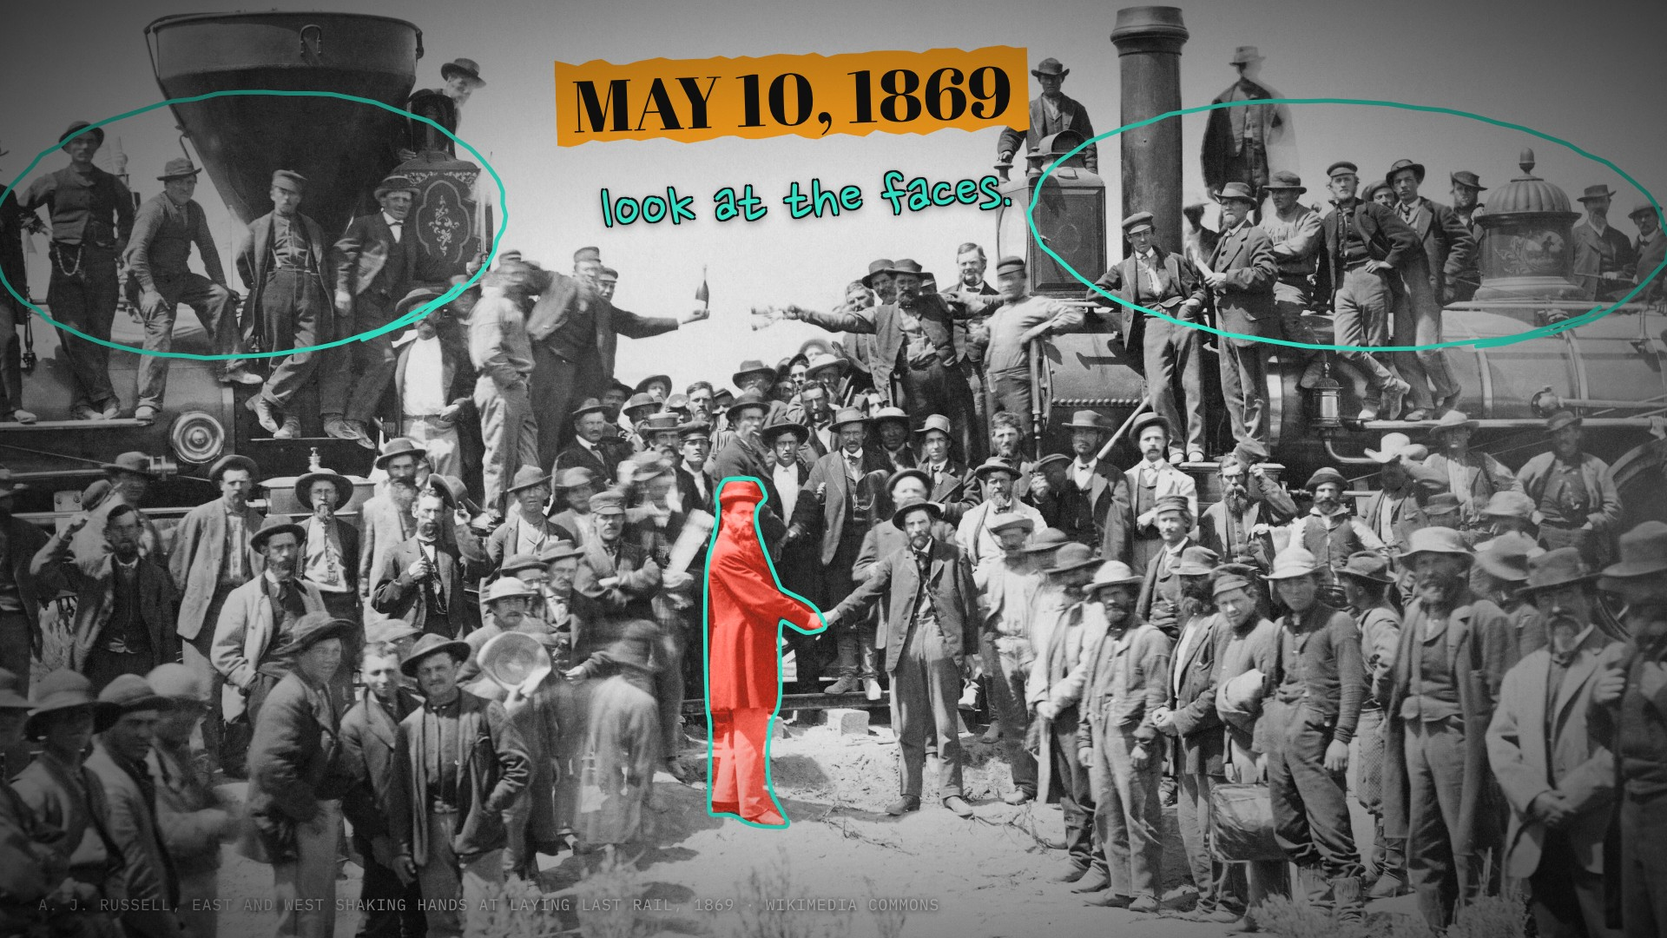
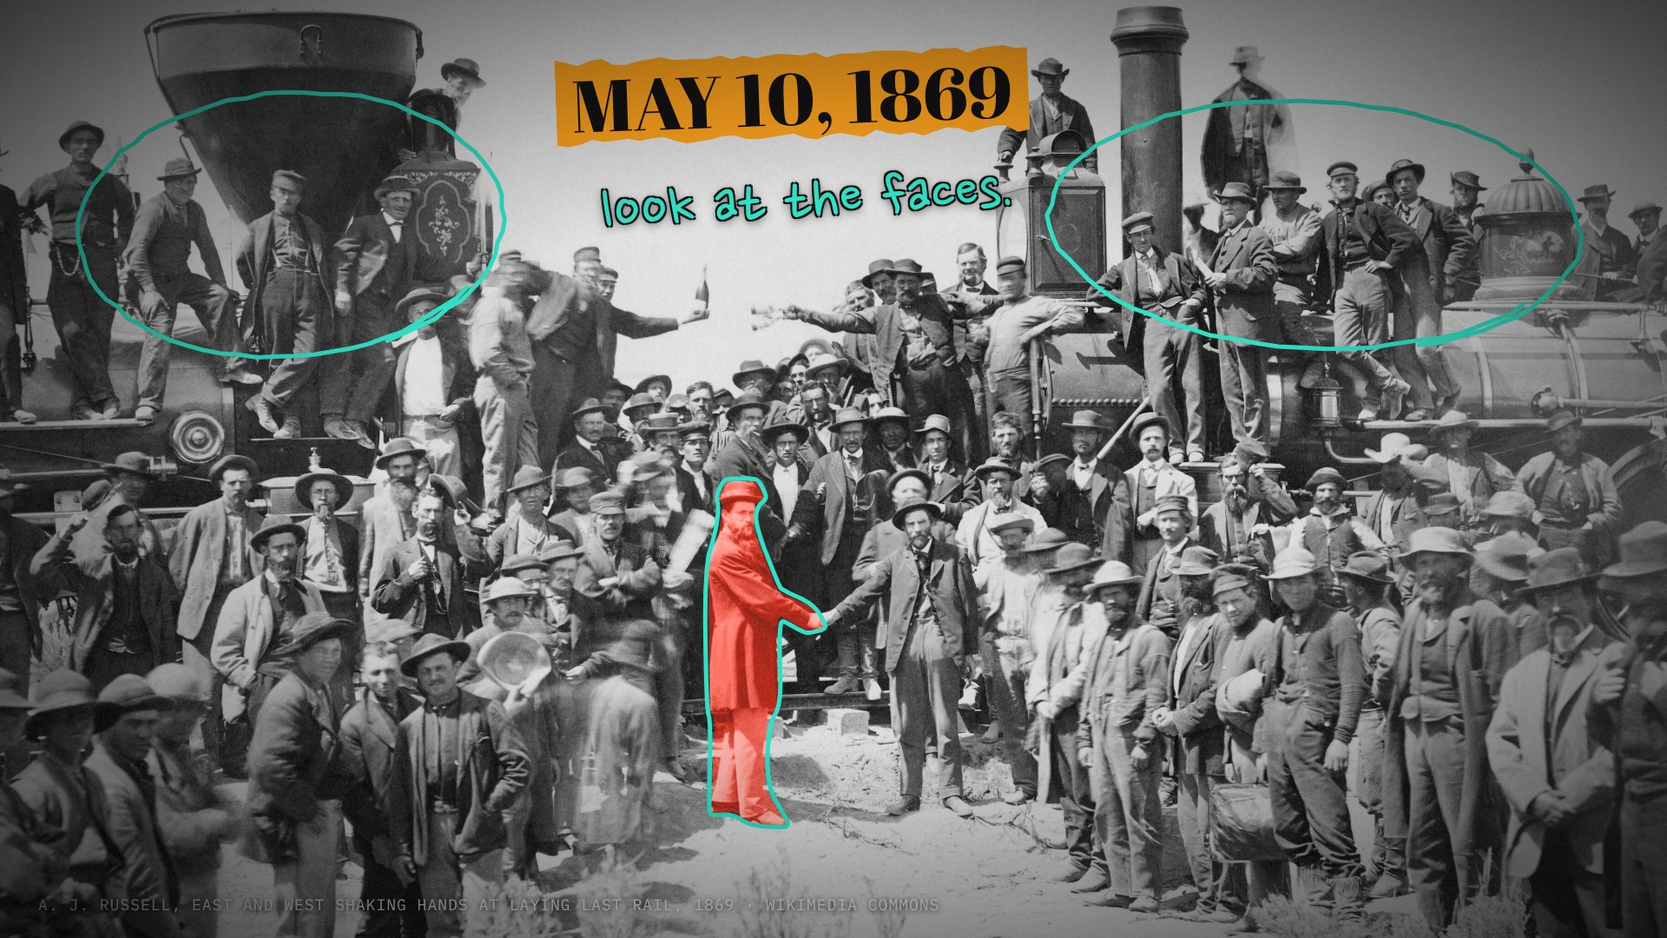
Ep 1 samples: 5 scenes, 15 style options, contact sheets and notes (stills only)
Claude-Session: https://claude.ai/code/session_01PVKdWU2D7nhk35zRUzwE6f

diff --git a/projects/American_West/ep1/src/samples/masks.ts b/projects/American_West/ep1/src/samples/masks.ts
@@ -1,8 +1,7 @@
 // Masks for the style-sample scenes (public/img/masks/s_*). Made with rembg via ep1/tools/mask.py's run(), then
-// hand-traced where rembg failed (s_up, s_montague, s_crew, s_worker: polygon-only; s_goliah: rembg + pilot polygon).
+// hand-traced where rembg failed (s_up, s_montague, s_worker: polygon-only; s_goliah: rembg + pilot polygon).
 // Do not re-run rembg over these; the traces and commands are listed in review/samples/README.md.
 import {maskRef} from '../kit/maskref';
-import crew from '../../public/img/masks/s_crew.json';
 import goliah from '../../public/img/masks/s_goliah.json';
 import montague from '../../public/img/masks/s_montague.json';
 import redcloud from '../../public/img/masks/s_redcloud.json';
@@ -10,7 +9,6 @@ import up from '../../public/img/masks/s_up.json';
 import worker from '../../public/img/masks/s_worker.json';
 
 export const SM = {
-  crew: maskRef('s_crew', crew),
   goliah: maskRef('s_goliah', goliah),
   montague: maskRef('s_montague', montague),
   redcloud: maskRef('s_redcloud', redcloud),
@@ -21,7 +19,6 @@ export const SM = {
 /** Source pixel sizes of the sample images (public/img/samples). */
 export const SZ = {
   spike: [3840, 2922] as [number, number],
-  laborers: [2128, 2020] as [number, number],
   tunnel8: [2090, 2000] as [number, number],
   goliah: [2104, 2040] as [number, number],
   carbutt: [2012, 2087] as [number, number],
@@ -33,7 +30,6 @@ export const SZ = {
 
 export const IMG = {
   spike: 'img/samples/spike_russell_1869.jpg',
-  laborers: 'img/samples/hart_summit_laborers.jpg',
   tunnel8: 'img/samples/hart_tunnel8_worker.jpg',
   goliah: 'img/samples/hart_goliah_mirrored.jpg',
   carbutt: 'img/samples/carbutt_up_100th_1866.jpg',

diff --git a/projects/American_West/ep1/src/samples/S1Spike.tsx b/projects/American_West/ep1/src/samples/S1Spike.tsx
@@ -17,8 +17,8 @@ export const S1A: React.FC = () => (
         const [l2x, l2y] = S(3020, 800);
         return (
           <>
-            <Loop cx={l1x} cy={l1y} rx={290} ry={150} at={24} seed={5} tilt={-4} />
-            <Loop cx={l2x} cy={l2y} rx={360} ry={140} at={30} seed={9} tilt={3} />
+            <Loop cx={l1x + 50} cy={l1y} rx={240} ry={150} at={24} seed={5} tilt={-4} />
+            <Loop cx={l2x - 40} cy={l2y} rx={300} ry={140} at={30} seed={9} tilt={3} />
             <Highlight text="MAY 10, 1869" x={640} y={60} size={84} at={6} seed={11} rot={-2} />
             <Note text="look at the faces." x={690} y={185} size={50} rot={-3} at={36} />
             <Tag text={SPIKE_TAG} />
@@ -59,6 +59,6 @@ export const S1C: React.FC = () => (
     <Note text="(left out of the frame)" x={1350} y={250} size={38} rot={-3} at={42} color="#ffffff" />
     <Arrow x1={1400} y1={350} x2={1180} y2={560} bow={-30} at={48} />
     <Highlight text="NOT IN THE PICTURE" x={120} y={952} size={70} at={6} seed={21} rot={-2} />
-    <Tag text="A. J. Russell, 1869 · Commons  ·  A. A. Hart, Heading of Tunnel No. 8, c. 1867 · LOC" x={44} y={24} />
+    <Tag text="A. J. Russell, 1869 · Commons  ·  A. A. Hart, Heading of Tunnel No. 8, 1865–69 · LOC" x={44} y={24} />
   </Sample>
 );

diff --git a/projects/American_West/ep1/src/samples/tools/prep.py b/projects/American_West/ep1/src/samples/tools/prep.py
@@ -1,0 +1,36 @@
+# Crop/re-encode downloaded archival files into ep1/public/img/samples (data only; nothing executed from downloads)
+# DL = folder of raw downloads (LOC TIFF masters, IIIF JPGs, Commons files; see public/img/samples/CREDITS.md). It was a
+# session scratch folder, so set DL before re-running.
+import os
+from PIL import Image, ImageOps
+Image.MAX_IMAGE_PIXELS = None
+SP = os.environ.get("SAMPLES_DL_ROOT", "")
+DL = os.path.join(SP, "dl")
+OUT = "/home/user/15minhistorystyle/projects/American_West/ep1/public/img/samples"
+def save(im, name, maxw=None):
+    im = im.convert("RGB")
+    if maxw and im.width > maxw:
+        im = im.resize((maxw, round(im.height * maxw / im.width)), Image.LANCZOS)
+    im.save(os.path.join(OUT, name), quality=90); print(name, im.size)
+save(Image.open(f"{DL}/commons/spike.jpg"), "spike_russell_1869.jpg")
+save(Image.open(f"{DL}/tif/1s00553.tif").crop((300, 90, 2390, 2090)), "hart_tunnel8_worker.jpg")
+g = Image.open(f"{DL}/tif/1s00612.tif").convert("RGB").crop((288, 112, 2392, 2152))
+save(g, "hart_goliah.jpg")
+# Mirrored copy so the CP engine faces east (right) on the left of a west-left map; the number plate and cab
+# nameplate are pasted back un-mirrored so their lettering reads correctly. Disclosed on screen and in CREDITS.md.
+f = ImageOps.mirror(g)
+from PIL import ImageDraw
+def unflip(im, box, ellipse=False):   # flip a region back in place so its lettering reads correctly
+    patch = ImageOps.mirror(im.crop(box))
+    m = Image.new("L", patch.size, 0); d = ImageDraw.Draw(m)
+    (d.ellipse if ellipse else d.rectangle)((0, 0, patch.width - 1, patch.height - 1), fill=255)
+    im.paste(patch, box[:2], m)
+unflip(f, (1785 - 45, 937 - 45, 1785 + 45, 937 + 45), ellipse=True)   # "27" number plate
+unflip(f, (1062, 770, 1158, 800))                                    # cab nameplate
+save(f, "hart_goliah_mirrored.jpg")
+save(Image.open(f"{DL}/tif/1s00083.tif").crop((343, 179, 2355, 2266)), "carbutt_up_100th_1866.jpg")
+save(Image.open(f"{DL}/tif/3c04561.tif").crop((614, 250, 2776, 3390)), "red_cloud_trager_kuhn_1891.jpg")
+save(Image.open(f"{DL}/doc/act_0563.jpg"), "pacific_railway_act_1862_p1.jpg")
+save(Image.open(f"{DL}/doc/act_0566.jpg"), "pacific_railway_act_1862_p4.jpg")
+save(Image.open(f"{DL}/maps/terr1868.jpg"), "map_warren_1868.jpg")
+save(Image.open(f"{DL}/maps/up_dodge1869.jpg"), "map_up_dodge_1869.jpg")

diff --git a/projects/American_West/ep1/src/samples/tools/srefine.py b/projects/American_West/ep1/src/samples/tools/srefine.py
@@ -1,0 +1,25 @@
+# refine sample masks: --only / --add polygons, fill holes, close, smooth; re-save via ep1/tools/trace.py
+import sys, json, argparse, cv2, numpy as np
+from PIL import Image, ImageDraw
+sys.path.insert(0, "/home/user/15minhistorystyle/projects/American_West/ep1/tools")
+import trace as T
+M = "/home/user/15minhistorystyle/projects/American_West/ep1/public/img/masks/"
+ap = argparse.ArgumentParser(); ap.add_argument("name"); ap.add_argument("--only"); ap.add_argument("--add"); ap.add_argument("--sub")
+ap.add_argument("--close", type=int, default=9); ap.add_argument("--smooth", type=int, default=3); a = ap.parse_args()
+m = np.asarray(Image.open(M + a.name + "_subject.png").convert("L")) > 127
+size = (m.shape[1], m.shape[0])
+def polys(p):
+    im = Image.new("L", size, 0); d = ImageDraw.Draw(im)
+    for q in json.load(open(p)): d.polygon([tuple(x) for x in q], fill=255)
+    return np.asarray(im) > 127
+if a.only: m = polys(a.only)
+if a.add: m = m | polys(a.add)
+if a.sub: m = m & ~polys(a.sub)
+m = m.astype(np.uint8) * 255
+m = cv2.morphologyEx(m, cv2.MORPH_CLOSE, cv2.getStructuringElement(cv2.MORPH_ELLIPSE, (a.close, a.close)))
+h, w = m.shape; fl = cv2.copyMakeBorder(m, 1, 1, 1, 1, cv2.BORDER_CONSTANT, value=0)
+cv2.floodFill(fl, np.zeros((h + 4, w + 4), np.uint8), (0, 0), 255); m = m | cv2.bitwise_not(fl[1:-1, 1:-1])
+if a.smooth: m = (cv2.GaussianBlur(m, (0, 0), a.smooth) > 127).astype(np.uint8) * 255
+n, lab, st, _ = cv2.connectedComponentsWithStats(m)
+if n > 2: m = ((lab == 1 + int(np.argmax(st[1:, cv2.CC_STAT_AREA]))) * 255).astype(np.uint8)
+T.save(a.name, size, {"subject": m})

diff --git a/projects/American_West/ep1/src/samples/tools/closeup.py b/projects/American_West/ep1/src/samples/tools/closeup.py
@@ -1,0 +1,25 @@
+# mask_closeup for the sample masks (sources from smask.py JOBS)
+import sys, os, re
+from PIL import Image, ImageDraw, ImageFilter
+import numpy as np
+PUB = "/home/user/15minhistorystyle/projects/American_West/ep1/public"
+src = open(os.path.join(os.path.dirname(os.path.abspath(__file__)), "smask.py")).read()
+J = dict(re.findall(r'"(s_\w+)": \("([^"]+)"', src))
+out, names = sys.argv[1], sys.argv[2:]
+tiles = []
+for n in names:
+    im = Image.open(os.path.join(PUB, J[n])).convert('RGB')
+    m = Image.open(os.path.join(PUB, 'img', 'masks', n + '_subject.png')).convert('L')
+    a = np.asarray(m) > 127; ys, xs = np.nonzero(a)
+    pad = 0.08 * max(np.ptp(xs), np.ptp(ys))
+    box = (max(0, int(xs.min() - pad)), max(0, int(ys.min() - pad)), min(im.width, int(xs.max() + pad)), min(im.height, int(ys.max() + pad)))
+    c = im.crop(box); mc = m.crop(box)
+    s = 700 / c.height; c = c.resize((int(c.width * s), 700)); mc = mc.resize(c.size)
+    edge = mc.filter(ImageFilter.FIND_EDGES).point(lambda v: 255 if v > 60 else 0)
+    o = c.copy(); o.paste((47, 224, 196), mask=edge.filter(ImageFilter.MaxFilter(3)))
+    cut = Image.new('RGB', c.size, (120, 120, 120)); cut.paste(c, mask=mc)
+    t = Image.new('RGB', (c.width * 2 + 10, 730), 'black'); t.paste(o, (0, 30)); t.paste(cut, (c.width + 10, 30))
+    ImageDraw.Draw(t).text((6, 6), n, fill='white'); tiles.append(t)
+W = sum(t.width for t in tiles) + 10 * len(tiles); sheet = Image.new('RGB', (W, 730), 'black'); x = 0
+for t in tiles: sheet.paste(t, (x, 0)); x += t.width + 10
+sheet.save(out, quality=88); print(out, sheet.size)

diff --git a/projects/American_West/ep1/src/samples/tools/smask.py b/projects/American_West/ep1/src/samples/tools/smask.py
@@ -1,0 +1,15 @@
+# Sample-scene masks: reuses ep1/tools/mask.py's run() with jobs for public/img/samples images.
+import sys
+sys.path.insert(0, "/home/user/15minhistorystyle/projects/American_West/ep1/tools")
+from mask import run  # noqa: E402
+JOBS = {
+    "s_montague": ("img/samples/spike_russell_1869.jpg", (1540, 1290, 1900, 2150), "isnet-general-use", 5000),
+    "s_goliah": ("img/samples/hart_goliah_mirrored.jpg", (985, 280, 2104, 1340), "isnet-general-use"),
+    "s_up": ("img/samples/carbutt_up_100th_1866.jpg", (0, 540, 920, 1200), "isnet-general-use"),
+    "s_worker": ("img/samples/hart_tunnel8_worker.jpg", None, "hand-traced"),  # polygon only: traces/s_worker.json
+    "s_redcloud": ("img/samples/red_cloud_trager_kuhn_1891.jpg", None, "u2net_human_seg"),
+}
+for n in sys.argv[1:] or JOBS:
+    print(n, flush=True)
+    try: run(n, *JOBS[n])
+    except Exception as e: print("FAIL", n, e)

diff --git a/projects/American_West/ep1/review/samples/README.md b/projects/American_West/ep1/review/samples/README.md
@@ -1,0 +1,112 @@
+# West series: style samples (stills only)
+
+Fifteen 1920×1080 stills, one per option, plus one contact sheet per scene (`sheet_S1_spike.jpg` … `sheet_S5_system.jpg`;
+the file name under each tile is the option). Option **A** is closest to the current channel look; **B/C** lean further into
+the collage ideas in `GRAPHICS_BRAINSTORM.md`. Everything sits on the black desk (`DarkPaper`): no cream or white cards, mounts
+or sticker edges. The only light tones are the archival scans themselves.
+
+- Code: `src/samples/` (`kit.tsx` = the new pieces, one file per scene, compositions registered in `src/Root.tsx` as
+  `S1-Spike-A` … `S5-Resist-B`, 90 frames each). Re-render all stills with `node src/samples/stills.mjs review/samples`
+  (frame 84, after every mark has landed).
+- Images and sources: `public/img/samples/` + `CREDITS.md`. All real archival files (LOC, Wikimedia Commons). No AI images.
+- Checks: `npx tsc --noEmit` passes; `tools/probe_text.mjs` over all 15 compositions: no text crosses the frame edge.
+
+## 1 · Cold open: the golden-spike photo (`sheet_S1_spike.jpg`)
+
+| Option | What it is | Brainstorm idea |
+|---|---|---|
+| **A** `S1-Spike-A` | Current look. Russell's photo full-bleed with a slow push. One coral figure with a teal trace (S. S. Montague, the CP's chief engineer, shaking hands). Teal loops round the men on both engines, "look at the faces.", and MAY 10, 1869 on orange tape. | the baseline |
+| **B** `S1-Spike-B` | The photo as a **torn print**: deckled edges with no border, a hard ink offset shadow, and two strips of orange tape. The bottom-right corner is torn away to bare desk ("who's missing?" with an arrow into the gap). A small **dark map card** (1868 War Dept. map) pins Promontory. NOT IN THE PICTURE on tape. | #4 torn print, #8 map card |
+| **C** `S1-Spike-C` | B plus a **cut-out of a Central Pacific Chinese worker** (Hart, Tunnel No. 8, with his carrying pole and buckets) standing in the torn gap. He becomes the frame's one coral subject (tint + teal trace + ink shadow), and the print goes plain B&W. | #11 cut-outs; thumbnail direction 1 |
+
+**What works:** C is the strongest frame of the set: the torn gap plus the worker says the episode's thesis without a word, and it
+doubles as the "Who's missing?" thumbnail. B is a cheap, safe upgrade over A and still reads as the channel. The map card is legible as
+"a place" even at this size.
+**What doesn't:** In B/C the print shrinks the crowd, so Montague's tint in B is small (this is fine for a cold open but not for a
+"look at the faces" beat; use A's full-bleed push for that line and cut to B/C on "aren't in it"). The worker in C is only about 490 px tall in
+the stereo half (shown at 0.88×); edges are hand-traced and clean, but the figure is soft next to Russell's sharp print. The
+map card's crop is dark and generic; with the real series map it will read better.
+
+## 2 · Land-grant checkerboard (`sheet_S2_checkerboard.jpg`)
+
+| Option | What it is | Brainstorm idea |
+|---|---|---|
+| **A** `S2-Checker-A` | Flat diagram: two townships (6×6 sections, real section numbering) in teal on the desk. The coral rail line draws across the middle, and odd sections fill orange behind it at 12 fps (railroad); even sections stay open (government). Legend in mono. The first page of the 1862 Act sits beside it as a taped torn print. | #1 survey grid |
+| **B** `S2-Checker-B` | The same plat **tilted onto the desk** in perspective (three townships wide), the line running into the distance, the Act pinned top-right. | #1, more "object on the desk" |
+| **C** `S2-Checker-C` | **Focus pull on the Act's own text** (p. 4, Sec. 3): the page lifts, everything but three lines blurs and dims, and a coral highlighter runs along "every alternate section of public land, designated by odd numbers, to the amount of five alternate sections per mile on each side of said railroad". One township fills beside it. | #3 focus pull (+ the planned `swipe`) |
+
+**What works:** C is the best teaching frame: the law's words and the picture they make, side by side. A is the clearest diagram
+and fully brand-safe. **What doesn't:** B looks great as a texture, but the tilt makes the numbers unreadable and the near rows
+crowd the bottom edge. Use it as a 2-second establishing move before cutting to A or C, not as the explainer. In A, the section
+numbers are a little busy; for the video, consider numbers only in the first township.
+
+## 3 · The race (`sheet_S3_race.jpg`)
+
+| Option | What it is | Brainstorm idea |
+|---|---|---|
+| **A** `S3-Race-A` | Two **locomotive cut-outs** with a hard ink shadow, nose to nose across the frame, the UP's own 1869 survey map (Dodge) as a torn strip between them. The CP engine is the coral subject (tint + teal trace). Orange name tags, "east from Sacramento" / "west from Omaha", "paid by the mile". | #11 cut-outs |
+| **B** `S3-Race-B` | The same, but the CP engine is lifted by a **coral offset shadow** instead of tint and trace (still one coral subject). | #6 offset coral shadow |
+| **C** `S3-Race-C` | Each engine stays **inside its own torn photo print**, taped, the map strip laid across both. | #4 torn prints |
+
+**What works:** A has the most energy, and the coral offset in B is graphic and readable at thumbnail size. C is the most
+"archival" and the least work per shot. **What doesn't / caveats (please read):**
+- **The CP engine is mirrored.** On a west-left map the CP engine sits on the left and must face east (right). The only sharp
+  period CP side view I found, Hart's *Goliah*, faces west (left). Carbutt's 1866 UP engine already faces west, so it sits on the
+  right unchanged. I mirrored the *Goliah* and flipped its "27" number plate and cab nameplate back so they read correctly. The
+  tag says "mirrored". If you'd rather not mirror an archival photo, the honest alternatives are (a) find side views of *Jupiter* and
+  *No. 119* that face the right way (CSRM or the UP Museum may have them), or (b) let both engines face west and drop the
+  "facing each other" idea.
+- The UP cut-out (Carbutt, 1866, from a stereo half) is much softer and grainier than the Hart print, and its mask is a hand-traced
+  polygon (rembg couldn't separate the engine from the train and the grass). It holds up at this size but not in a close push.
+- These are not *Jupiter* and *No. 119*. Those two engines appear only in the Promontory photos, covered in people.
+
+## 4 · Promise Ledger (`sheet_S4_ledger.jpg`)
+
+| Option | What it is |
+|---|---|
+| **A** `S4-Ledger-A` | A wide dark ledger across the desk: torn top edge with orange tape, teal rules and margin, mono column heads THE PROMISE · WHO GOT IT · WHO DIDN'T, rows EP 1–4, row 1 written in teal hand. The title is on orange tape above it. |
+| **B** `S4-Ledger-B` | A narrower ledger card with its title set in orange Abril on the card, beside the torn golden-spike print (callback). Two-line entries; "the Chinese crews" in coral as the punchline, and "banned by nationality, 1882" below. |
+
+**What works:** A reads instantly as a recurring object (empty rows promise the series), and it is the one I'd ship. B is the
+better *ending* frame for Ep 1 (the callback to the photo), but coral text is an exception to the palette; use it once.
+**What doesn't:** the dark ledger is close in tone to the desk. I lightened the card a touch, and it still needs the shadow and
+tape to separate. If it gets lost on a small screen, a 2 px teal outer rule would fix it without adding a light surface.
+
+## 5 · System pieces for later episodes (`sheet_S5_system.jpg`)
+
+| Option | What it is |
+|---|---|
+| **Hinge A** `S5-Hinge-A` | "1862" in Abril on a torn orange box that stamps in, then a dark mono strip under it in teal: 1862 · PACIFIC RAILWAY ACT · HOMESTEAD ACT · MORRILL ACT. Big, on the bare desk, with a "remember this year" note. |
+| **Hinge B** `S5-Hinge-B` | The same stamp smaller in a **fixed top-left slot** over whatever scene it interrupts (here the 1868 map, dimmed), so it reads as a recurring stamp. |
+| **Resist A** `S5-Resist-A` | Resistance card on the desk: Red Cloud's photograph in a dark circle mount with a teal ring and a teal trace only (no tint), five orange mono field tags (WHO / WHERE / WHEN / WHY / HOW IT ENDED) with teal handwritten answers, and a map-card corner looping the Powder River country. Title RED CLOUD'S WAR on tape. |
+| **Resist B** `S5-Resist-B` | Everything on **one dark card** (thin teal rule): portrait, name tag and map stacked left, the five fields right. |
+
+**What works:** Hinge B is the one to standardise (same slot every time, so it becomes recognisable); A is for the first time a
+year is introduced. Resist B looks most like a "card" students can learn to read; A is airier. **What doesn't:** in the tight
+circle crop, the teal trace only shows along Red Cloud's face and hair edge and reads a little like a crack. For portraits that fill
+the circle, I'd drop the trace and let the teal ring be the mark. The portrait is c. 1891, decades after the 1866–68 war; for
+the real card, look for an earlier portrait (e.g. the 1870s Washington delegation photos) or say "photographed c. 1891" on screen.
+The Powder River loop on the 1868 map is placed by eye (approximate). Field tags are orange (labels) rather than the mono-on-ink
+of the brainstorm: ink tags vanished on the dark card.
+
+## Masks (check before reuse)
+
+`public/img/masks/s_*`, registered in `src/samples/masks.ts` (separate from the chapter `src/masks.ts`). rembg alone failed on
+most of these busy period photos, so they are hand-traced polygons. **Do not re-run rembg over them.** Scripts and traces:
+`src/samples/tools/` (`smask.py` jobs → `srefine.py` with `--only/--add tools/traces/<name>.json` → `closeup.py` to check).
+
+| Mask | How |
+|---|---|
+| `s_montague` | polygon only (`traces/s_montague.json`); rembg returned the coat without the head |
+| `s_worker` | polygon only (`traces/s_worker.json`) incl. carrying pole and left bucket |
+| `s_goliah` | rembg (isnet) + `traces/s_goliah_add.json` (pilot/front beam it missed), holes filled |
+| `s_up` | polygon only (`traces/s_up.json`); rembg gave fragments |
+| `s_redcloud` | rembg (u2net_human_seg), clean |
+
+## Not done / open
+
+- No sound and no video render (stills only, as asked). The sample compositions have placeholder timings (marks land between
+  frames 2 and 60), not narration anchors.
+- The engines in S3 are stand-ins (see the caveats above); the CP one is mirrored.
+- The map card uses the 1868 War Department map, not the series 3D map (which doesn't exist yet), so a future card's crop should
+  match the 3D map's look.

diff --git a/projects/American_West/ep1/public/img/samples/CREDITS.md b/projects/American_West/ep1/public/img/samples/CREDITS.md
@@ -1,0 +1,18 @@
+# Sample-scene images: sources
+
+All are public domain / "no known restrictions on publication" originals, downloaded as image data only and
+re-encoded to JPG (crops noted). Used by the style samples in `src/samples/`.
+
+| File | What it is | Source | URL | Notes |
+|---|---|---|---|---|
+| `spike_russell_1869.jpg` | Andrew J. Russell, *East and West Shaking Hands at Laying Last Rail*, Promontory Summit, Utah Terr., May 10, 1869 | Wikimedia Commons (restoration by Adam Cuerden), public domain | https://commons.wikimedia.org/wiki/File:East_and_West_Shaking_hands_at_the_laying_of_last_rail_Union_Pacific_Railroad_-_Restoration.jpg | 3840 px thumbnail of the 4514 px file |
+| `hart_tunnel8_worker.jpg` | Alfred A. Hart, *Heading of east portal Tunnel No. 8* (Central Pacific RR stereograph no. 204), 1865–69; a Chinese worker with a carrying pole | Library of Congress, Stereograph Cards, LC-DIG-stereo-1s00553 (no known restrictions) | https://www.loc.gov/pictures/item/2005682948/ | left half of the stereo pair, from the TIFF master |
+| `hart_goliah.jpg` | Alfred A. Hart, *The Goliah, at Wadsworth, Big Bend of Truckee River* (CP stereograph no. 307), 1865–69 | Library of Congress, LC-DIG-stereo-1s00612 | https://www.loc.gov/pictures/item/93508820/ | left half, original orientation |
+| `hart_goliah_mirrored.jpg` | the same, **mirrored** so the CP engine faces east on a west-left layout; the "27" number plate and cab nameplate were flipped back so they read correctly | derived from the above | — | disclosed on screen ("mirrored") |
+| `carbutt_up_100th_1866.jpg` | John Carbutt, *The Directors of the U.P.R.R. at the 100th Meridian* (Union Pacific excursion, Oct. 1866) | Library of Congress, LC-DIG-stereo-1s00083 | https://www.loc.gov/pictures/item/2005682857/ | left half |
+| `red_cloud_trager_kuhn_1891.jpg` | Trager & Kuhn (Chadron, Neb.), Red Cloud, Oglala Lakota, head-and-shoulders portrait, c. 1891 | Library of Congress, cph 3c04561 (no known restrictions) | https://www.loc.gov/pictures/item/91481171/ | cropped to the print |
+| `pacific_railway_act_1862_p1.jpg`, `_p4.jpg` | *An Act to aid in the construction of a railroad and telegraph line from the Missouri river to the Pacific ocean…* (Pacific Railway Act), printed for the Senate, July 14, 1862, Mis. Doc. No. 108, pp. 1 and 4 (p. 4 has Sec. 3, "every alternate section of public land, designated by odd numbers") | Library of Congress, U.S. Congressional Serial Set (U.S. government work) | https://www.loc.gov/item/2025864706/ | pages 0563 and 0566 of the resource |
+| `map_warren_1868.jpg` | G. K. Warren / Edward Freyhold, *Territory of the United States from the Mississippi River to the Pacific Ocean*, War Department, 1868 | Library of Congress, Geography and Map Division | https://www.loc.gov/item/gm71000836/ | 4000 px IIIF derivative |
+| `map_up_dodge_1869.jpg` | G. M. Dodge, *Map of the Union Pacific Rail Road and surveys of 1864–1868, from Missouri River to Humboldt Wells*, 1869 | Library of Congress, Geography and Map Division, Railroad Maps | https://www.loc.gov/item/98688835/ | 6000 px IIIF derivative |
+
+Map pin positions on the 1868 map (Promontory, Powder River country) were read off a grid by eye: approximate.
